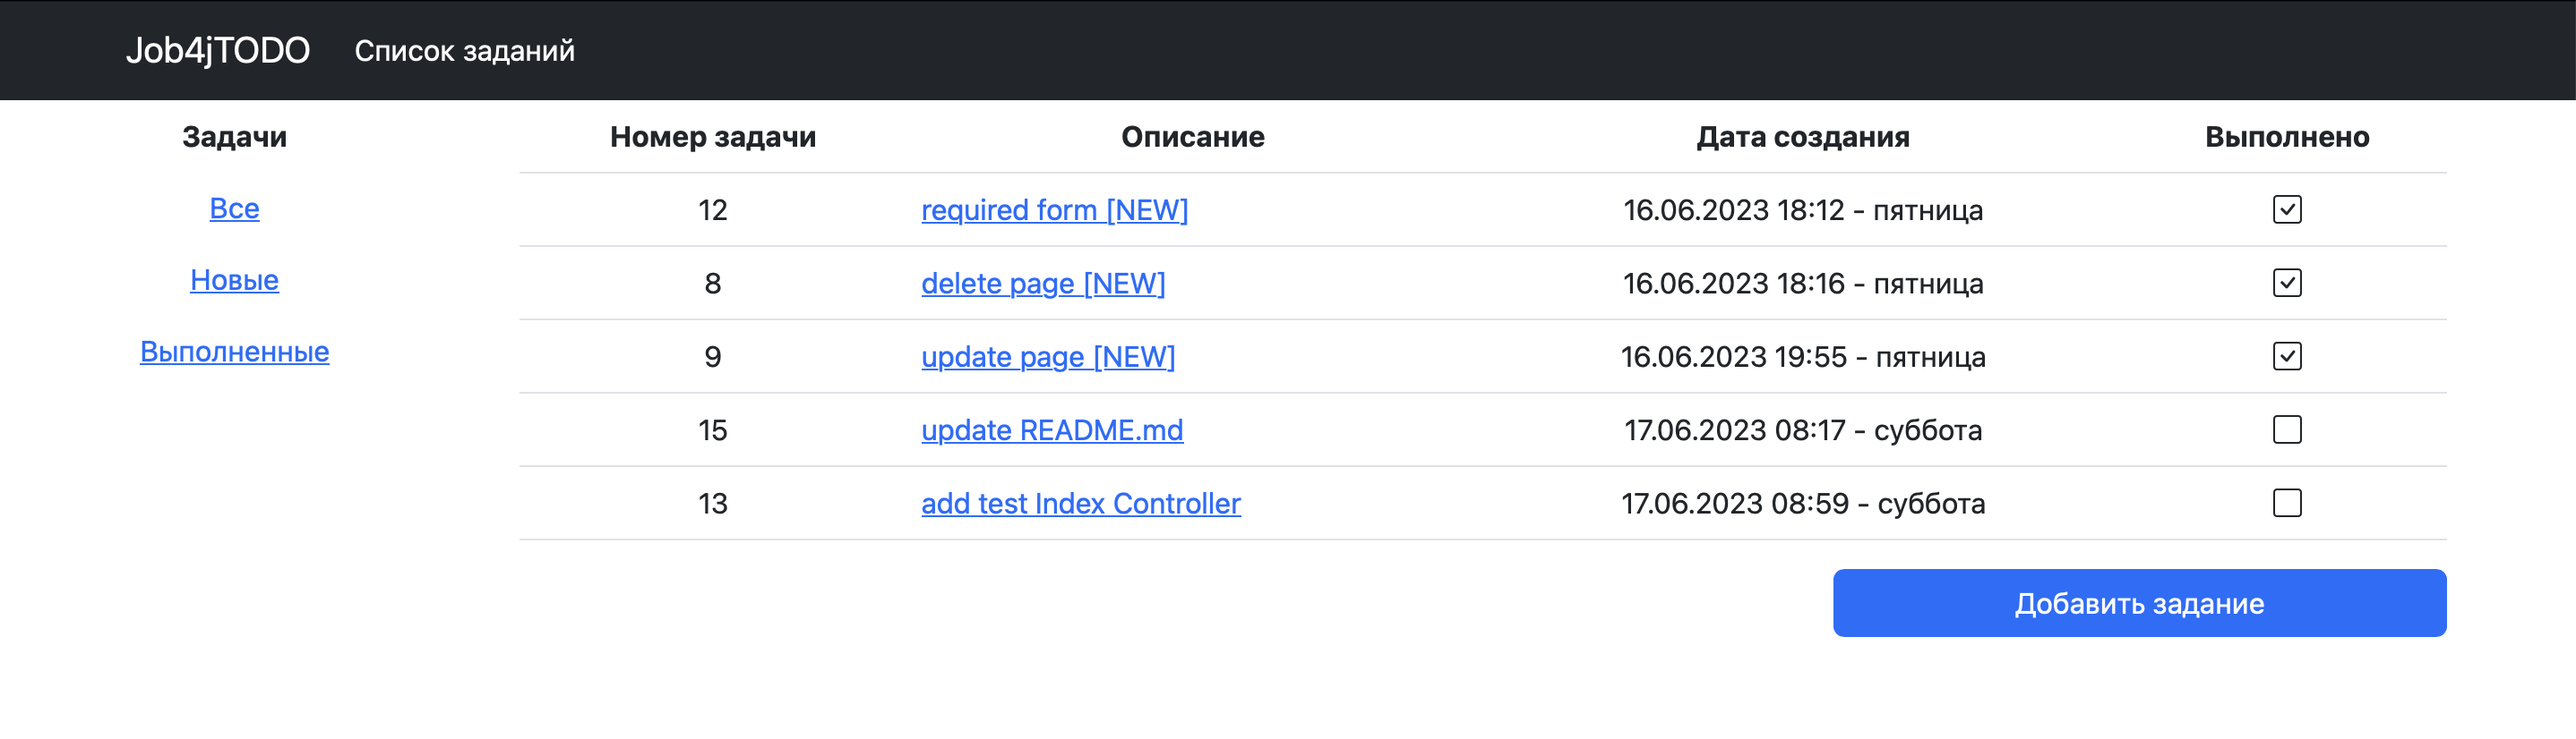
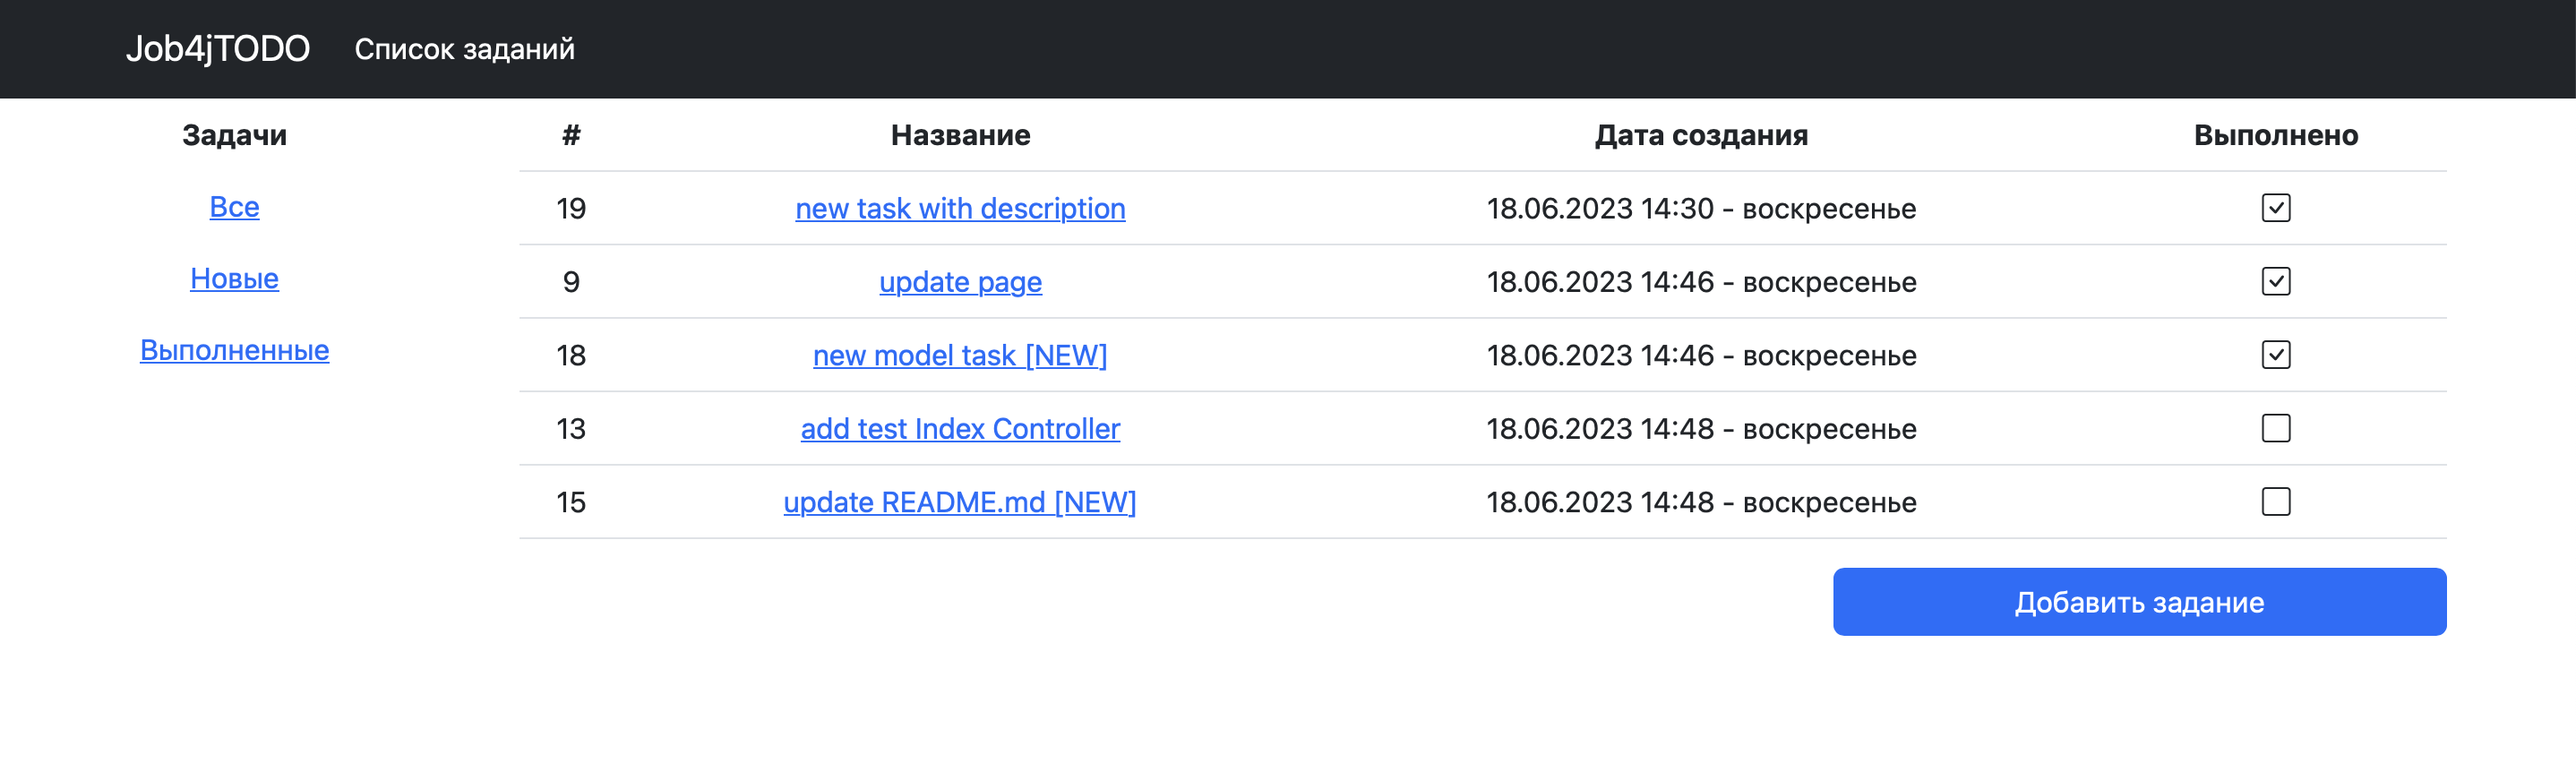
20. Редактирование README.md

diff --git a/src/main/resources/templates/tasks/list.html b/src/main/resources/templates/tasks/list.html
@@ -51,7 +51,7 @@
                 <table class="table">
                     <thead>
                     <tr class="text-center">
-                        <th scope="col">Номер задачи</th>
+                        <th scope="col">#</th>
                         <th scope="col">Название</th>
                         <th scope="col">Дата создания</th>
                         <th scope="col">Выполнено</th>

diff --git a/README.md b/README.md
@@ -11,8 +11,9 @@
 
 **Приложение TODO список**
 
-</br>Отображает список всех заданий, позволяет *добавлять* задания, *удалять* и *редактировать*.
-</br>Каждое задание имеет *описание*, *дату создания* и *статус выполнения*.
+</br>Позволяет *добавлять* задания, *удалять* и *редактировать*.
+</br>Каждое задание имеет *название*, *описание*, *дату создания* и *статус выполнения*.
+</br>Отображает список всех заданий, выполненных заданий и новых заданий.
 
 ## Для реализации проекта используются
 
@@ -45,8 +46,9 @@
 ``` shell 
 create database todo_db;
 ```
-+ **Выполните скрипт 001_ddl_create_tasks_table.sql из директории:**
-  </br>*job4j_todo-main/db/scripts*
++ **Выполните следующие скрипты из директории** *job4j_todo-main/db/scripts*:
+  </br>*001_ddl_create_tasks_table.sql*
+  </br>*002_ddl_alter_table_tasks_add_title_column.sql*
 + **В терминале перейдите в проект**
 + **Запустите проект**
 ``` shell 
